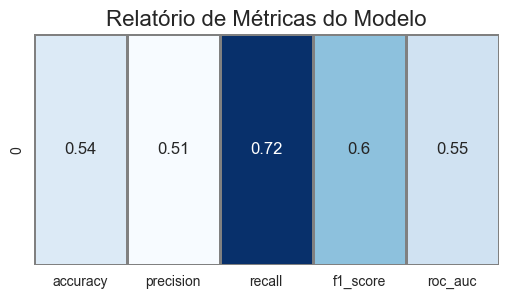
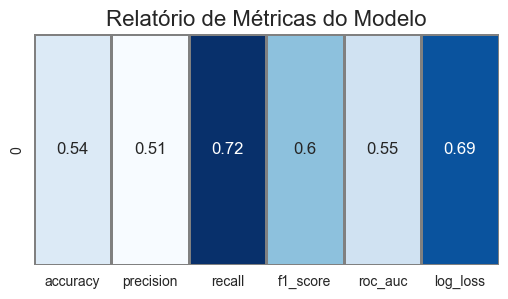
inclusão árvore de decisão

diff --git a/src/pd_kobe/pipelines/model_training/nodes.py b/src/pd_kobe/pipelines/model_training/nodes.py
@@ -49,8 +49,27 @@ def logistic_regression_model(train_features: pd.DataFrame, session_id) -> dict:
             early_stopping_max_iters=10,
             verbose=False
         )
-        f1_score = exp.pull().iloc[0]["F1"]
-        mlflow.log_metric("F1 Score", f1_score)
+
+        metrics = metrics = exp.pull() 
+       # Criar dicionário de métricas
+        metrics_dict = {
+            "accuracy": metrics.iloc[0]["Accuracy"],
+            "precision": metrics.iloc[0]["Prec."],
+            "recall": metrics.iloc[0]["Recall"],
+            "f1_score": metrics.iloc[0]["F1"],
+            "roc_auc": metrics.iloc[0]["AUC"], 
+            "kappa": metrics.iloc[0]["Kappa"],
+            "mcc": metrics.iloc[0]["MCC"]            
+        }
+
+        mlflow.log_metric("accuracy", metrics_dict['accuracy'])
+        mlflow.log_metric("precision", metrics_dict['precision'])
+        mlflow.log_metric("recall", metrics_dict['recall'])
+        mlflow.log_metric("f1_score", metrics_dict['f1_score'])
+        mlflow.log_metric("roc_auc", metrics_dict['roc_auc'])
+        mlflow.log_metric("kappa", metrics_dict['kappa'])
+        mlflow.log_metric("mcc", metrics_dict['mcc'])
+
         mlflow.sklearn.log_model(tuned_lr, "logistic_regression_model")
 
     return tuned_lr
@@ -84,9 +103,28 @@ def decision_tree_model(train_features: pd.DataFrame, session_id) -> dict:
             early_stopping=True,
             early_stopping_max_iters=10,
             custom_grid=dt_search_space
-        )
-        f1_score = exp.pull().iloc[0]["F1"]
-        mlflow.log_metric("F1 Score", f1_score)
+        ) 
+
+        metrics = metrics = exp.pull() 
+       # Criar dicionário de métricas
+        metrics_dict = {
+            "accuracy": metrics.iloc[0]["Accuracy"],
+            "precision": metrics.iloc[0]["Prec."],
+            "recall": metrics.iloc[0]["Recall"],
+            "f1_score": metrics.iloc[0]["F1"],
+            "roc_auc": metrics.iloc[0]["AUC"],
+            "kappa": metrics.iloc[0]["Kappa"],
+            "mcc": metrics.iloc[0]["MCC"]
+        }
+
+        mlflow.log_metric("accuracy", metrics_dict['accuracy'])
+        mlflow.log_metric("precision", metrics_dict['precision'])
+        mlflow.log_metric("recall", metrics_dict['recall'])
+        mlflow.log_metric("f1_score", metrics_dict['f1_score'])
+        mlflow.log_metric("roc_auc", metrics_dict['roc_auc'])
+        mlflow.log_metric("kappa", metrics_dict['kappa'])
+        mlflow.log_metric("mcc", metrics_dict['mcc'])
+
         mlflow.sklearn.log_model(tuned_dt, "decision_tree_model")
 
     return tuned_dt 

diff --git a/src/pd_kobe/pipelines/reporting/pipeline.py b/src/pd_kobe/pipelines/reporting/pipeline.py
@@ -27,16 +27,31 @@ def create_pipeline(**kwargs) -> Pipeline:
         generate_node('metrics_lr_test','shots_test','predicted_probabilities_lr_test','predictions_lr_test', 'lr_tuned', 'params:data_shots_test_str','save_model_plots_metrics_LR_test'),
         generate_node('metrics_dt_test','shots_test','predicted_probabilities_dt_test','predictions_dt_test', 'dt_tuned', 'params:data_shots_test_str','save_model_plots_metrics_DT_test'),
         
+        ## SERVE E VALIDA REGRESSÃO LOGISTICA
         node(
             func=serve_and_predict,
-            inputs=['data_features_prod', 'params:run_id', 'params:model_name'],
-            outputs='predictions',
-            name="serve_and_predict_node"
+            inputs=['data_features_prod','params:model_name_lr'],
+            outputs='predictions_rl',
+            name="serve_and_predict_node_lr"
         ),
         node(
             func=plot_shot_predictions,
-            inputs=['data_features_prod', 'predictions', 'params:plot_output_path'],
+            inputs=['data_features_prod', 'predictions_rl', 'params:plot_output_path_lr'],
             outputs=None,
-            name="plot_shot_predictions_node"
+            name="plot_shot_predictions_node_lr"
+        ),
+
+        ## SERVE E VALIDA ARVORE DE DECISÃO
+        node(
+            func=serve_and_predict,
+            inputs=['data_features_prod', 'params:model_name_dt'],
+            outputs='predictions_dt',
+            name="serve_and_predict_node_dt"
+        ),
+        node(
+            func=plot_shot_predictions,
+            inputs=['data_features_prod', 'predictions_dt', 'params:plot_output_path_dt'],
+            outputs=None,
+            name="plot_shot_predictions_node_dt"
         )
     ])

diff --git a/src/pd_kobe/pipelines/model_predicts/nodes.py b/src/pd_kobe/pipelines/model_predicts/nodes.py
@@ -3,7 +3,7 @@ Nós criados para analisar e calcular as métricas dos modelos
 e também fazer as predições com os dados de teste do catalog
 """  
 import pandas as pd 
-from sklearn.metrics import confusion_matrix, accuracy_score, roc_curve, f1_score, precision_score, recall_score, roc_auc_score   
+from sklearn.metrics import confusion_matrix, accuracy_score, roc_curve, f1_score, precision_score, recall_score, roc_auc_score, log_loss   
 import matplotlib.pyplot as plt
 import mlflow
 import numpy as np
@@ -24,6 +24,7 @@ def calculate_model_metrics(features: pd.DataFrame, session_id, model, str):
     recall = recall_score(y_test, y_pred)
     f1 = f1_score(y_test, y_pred)
     roc_auc = roc_auc_score(y_test, y_proba) 
+    logLoss = log_loss(y_test, y_proba) 
     
     # Criar um DataFrame único para as métricas
     metrics_df = pd.DataFrame({
@@ -31,7 +32,8 @@ def calculate_model_metrics(features: pd.DataFrame, session_id, model, str):
         "precision": [precision],
         "recall": [recall],
         "f1_score": [f1],
-        "roc_auc": [roc_auc]
+        "roc_auc": [roc_auc],
+        "log_loss": [logLoss]
     })
   
     y_proba_df = pd.DataFrame(y_proba, columns=["probability"])

diff --git a/src/pd_kobe/pipelines/reporting/nodes.py b/src/pd_kobe/pipelines/reporting/nodes.py
@@ -96,7 +96,7 @@ def get_model_short_name(model):
     # Retorna a sigla correspondente ou o nome completo se não encontrado
     return model_name_map.get(full_model_name, full_model_name)
 
-def serve_and_predict(data: pd.DataFrame, run_id: str, model_name: str, port: int = 5001) -> pd.DataFrame:
+def serve_and_predict(data: pd.DataFrame,model_name, port: int = 5001) -> pd.DataFrame:
     """
     Sobe o servidor do MLflow, faz a requisição pra API e retorna as previsões como DataFrame.
     
@@ -135,7 +135,7 @@ def serve_and_predict(data: pd.DataFrame, run_id: str, model_name: str, port: in
     # Montar o comando pra subir o servidor do MLflow
     mlflow_command = [
         "mlflow", "models", "serve",
-        "-m", f"runs:/{run_id}/{model_name}",
+        "-m", f"models:/{model_name}/latest",  # Usa a versão mais recente do modelo
         "-p", str(port),
         "--env-manager", "conda"
     ]

diff --git a/README.md b/README.md
@@ -70,7 +70,7 @@ pd-kobe/
 
 Para executar o projeto, você precisa ter as seguintes ferramentas instaladas:
 
-- **Python 3.8+**
+- **Python 3.11**
 - **Conda** (para gerenciamento de ambientes)
 - **Kedro 0.19.12**
 - **MLflow**
@@ -89,7 +89,7 @@ pip install -r requirements.txt
 
 1. **Configurar o ambiente**
     - Crie e ative um ambiente Conda para o projeto:
-        conda create -n kedro_env python=3.8
+        conda create -n kedro_env python=3.11
         conda activate kedro_env
         pip install -r requirements.txt
 
